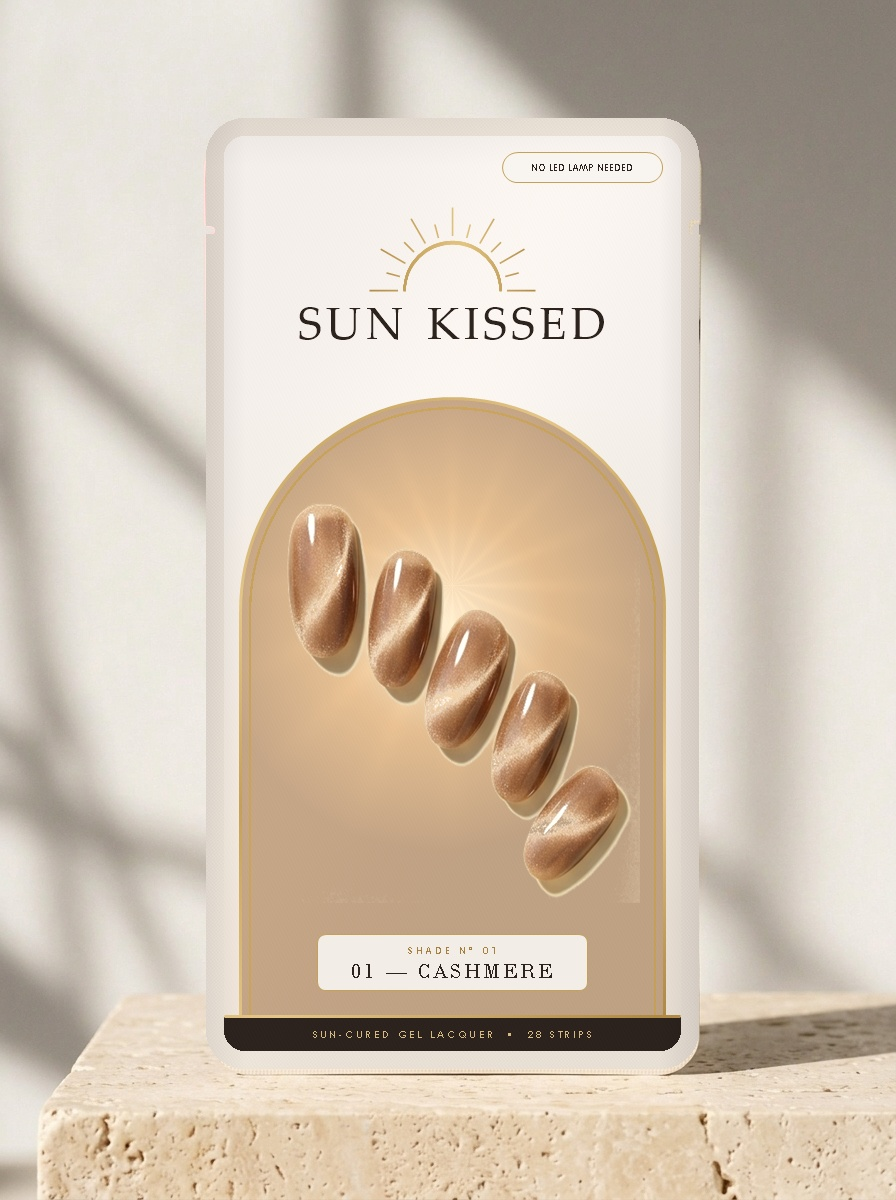
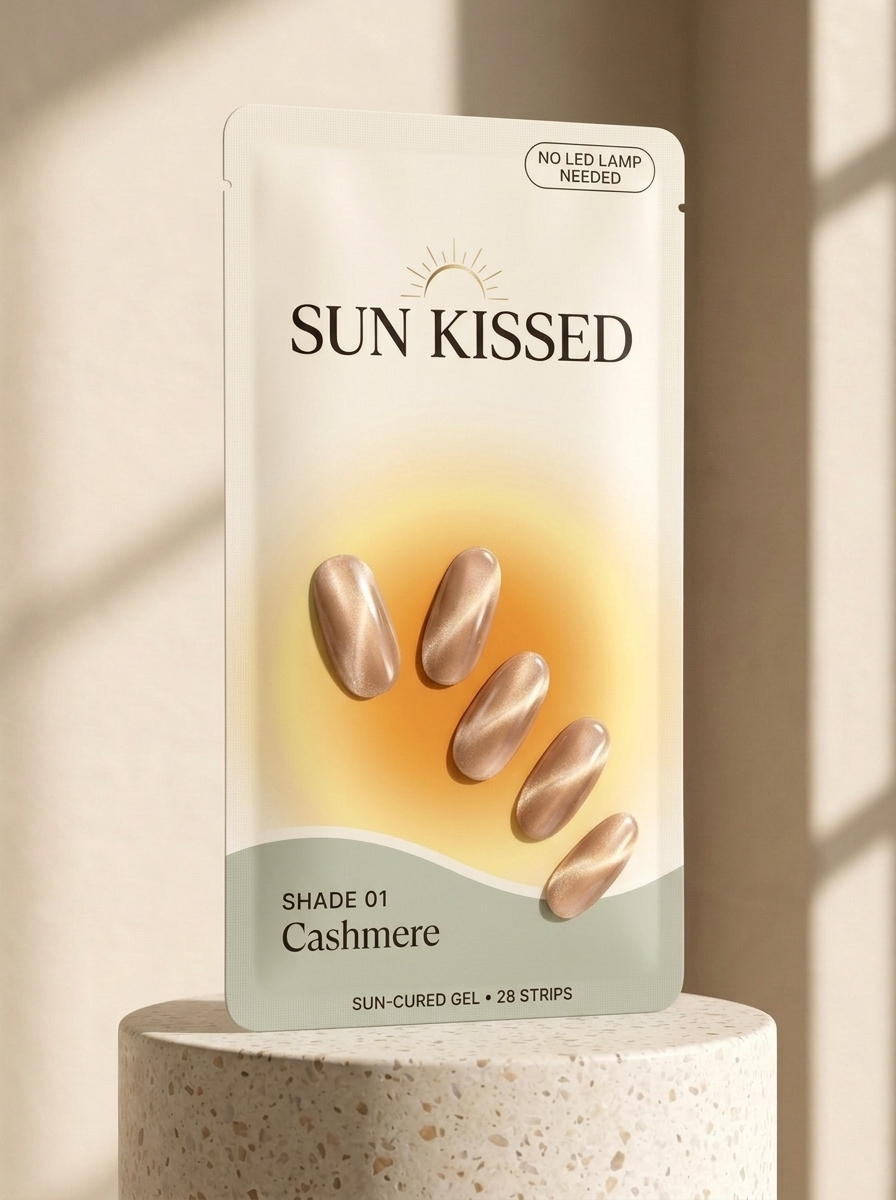
Update Sun Kissed to C2O1 Solar Blur and C2O2 Architectural Sunbeam

diff --git a/brand/index.html b/brand/index.html
@@ -493,9 +493,9 @@
       <!-- CONCEPT 2: SUN KISSED -->
       <article class="brand-col sunkissed" id="colSunkissed">
         <div class="brand-header">
-          <span class="brand-tag">Concept 02 (C2) • High-End Quiet Luxury</span>
+          <span class="brand-tag">Concept 02 (C2) • Warm Clean-Girl Luxury</span>
           <h2>Sun Kissed</h2>
-          <p>Architectural, minimalist, and ultra-elevated. Inspired by <strong>Rhode, Merit, Toteme, and Chanel Les Beiges</strong>—solar-cured gel strips packaged like a $55 luxury beauty object.</p>
+          <p>Warm, radiant, effortless, and high-end. Inspired by <strong>Summer Fridays, Rhode, Loewe, and Crown Affair</strong>—turning natural daylight and shadow into an iconic beauty packaging signature.</p>
         </div>
 
         <div class="brand-body">
@@ -503,14 +503,14 @@
             <div class="section-head">
               <span class="section-label">Pouch Packaging Options (Shade 01: Cashmere)</span>
               <div class="mini-tabs">
-                <button class="mini-tab active" onclick="switchSkMockup('c2o1', this)">C2O1: Solar Aura Arch</button>
-                <button class="mini-tab" onclick="switchSkMockup('c2o2', this)">C2O2: Riviera Cabana</button>
+                <button class="mini-tab active" onclick="switchSkMockup('c2o1', this)">C2O1: The Solar Blur</button>
+                <button class="mini-tab" onclick="switchSkMockup('c2o2', this)">C2O2: Architectural Sunbeam</button>
               </div>
             </div>
             <div class="visual-card">
               <img id="skMockupImg" src="assets/sunkissed-v1-horizon-pouch.jpg" onerror="this.src='assets/sun-kissed-packaging.jpg'" alt="Sun Kissed Luxury Pouch Mockup" onclick="openLightbox(this.src)" />
               <div class="visual-caption" id="skMockupCaption">
-                <strong>C2O1 — "Solar Aura &amp; Travertine Arch" Pouch:</strong> Features the signature <strong>18k Brushed Gold Rising-Sun Arch &amp; Rays logo crest</strong> above <code>SUN KISSED</code>, a sculpted <strong>Golden-Hour Travertine &amp; Champagne Taupe Solar Arch</strong> (<code>#D2B99D</code> &rarr; <code>#BFA183</code>) framing the 5 cascading nails, an Alabaster Linen <code>01 — CASHMERE</code> couture plaque, and a grounding <strong>Deep Espresso (<code>#2C221E</code>)</strong> base bar (with the bottom slogan removed).
+                <strong>C2O1 — "The Solar Blur" Pouch (<em>Summer Fridays / Rhode / Gisou</em> Vibe):</strong> Soft-touch matte <strong>Vanilla Cream (<code>#F7EFE1</code>)</strong> pouch with a velvety, frosted-glass <strong>Amber Dusk (<code>#EA9028</code>) &rarr; Lemon Sorbet (<code>#FCE79C</code>)</strong> golden-hour glow behind the 5 cascading nails, anchored by a gentle curved <strong>Sage Kiss (<code>#B8BDAA</code>)</strong> horizon base and topped with the Brushed Gold Rising-Sun Arch crest.
               </div>
             </div>
           </div>
@@ -533,24 +533,15 @@
 
           <div>
             <div class="section-head">
-              <span class="section-label">C2O1 Palette: Quiet-Luxury Golden Hour (Click to copy)</span>
+              <span class="section-label">Sun Kissed Signature Palette: Sunlit Sage &amp; Amber Dusk (Click to copy)</span>
             </div>
-            <div class="palette-row" style="margin-bottom:1rem;">
-              <div class="swatch" onclick="copyHex('#F4EFEA')"><div class="swatch-color" style="background:#F4EFEA"></div><div class="swatch-meta"><strong>Linen</strong><span>#F4EFEA</span></div></div>
-              <div class="swatch" onclick="copyHex('#D2B99D')"><div class="swatch-color" style="background:#D2B99D"></div><div class="swatch-meta"><strong>Travertine</strong><span>#D2B99D</span></div></div>
-              <div class="swatch" onclick="copyHex('#BFA183')"><div class="swatch-color" style="background:#BFA183"></div><div class="swatch-meta"><strong>Taupe</strong><span>#BFA183</span></div></div>
-              <div class="swatch" onclick="copyHex('#C5A059')"><div class="swatch-color" style="background:#C5A059"></div><div class="swatch-meta"><strong>Gold Foil</strong><span>#C5A059</span></div></div>
-              <div class="swatch" onclick="copyHex('#2C221E')"><div class="swatch-color" style="background:#2C221E"></div><div class="swatch-meta"><strong>Espresso</strong><span>#2C221E</span></div></div>
-            </div>
-            <div class="section-head">
-              <span class="section-label">C2O2 Palette: Endless Summer "Mediterranean Riviera" (Click to copy)</span>
-            </div>
-            <div class="palette-row">
-              <div class="swatch" onclick="copyHex('#1B4D89')"><div class="swatch-color" style="background:#1B4D89"></div><div class="swatch-meta"><strong>Cobalt</strong><span>#1B4D89</span></div></div>
-              <div class="swatch" onclick="copyHex('#D96B43')"><div class="swatch-color" style="background:#D96B43"></div><div class="swatch-meta"><strong>Terracotta</strong><span>#D96B43</span></div></div>
-              <div class="swatch" onclick="copyHex('#F4C44E')"><div class="swatch-color" style="background:#F4C44E"></div><div class="swatch-meta"><strong>Limoncello</strong><span>#F4C44E</span></div></div>
-              <div class="swatch" onclick="copyHex('#FAF6F0')"><div class="swatch-color" style="background:#FAF6F0"></div><div class="swatch-meta"><strong>Chalk Linen</strong><span>#FAF6F0</span></div></div>
-              <div class="swatch" onclick="copyHex('#1D2432')"><div class="swatch-color" style="background:#1D2432"></div><div class="swatch-meta"><strong>Riviera Navy</strong><span>#1D2432</span></div></div>
+            <div class="palette-row" style="grid-template-columns: repeat(6, 1fr);">
+              <div class="swatch" onclick="copyHex('#B8BDAA')"><div class="swatch-color" style="background:#B8BDAA"></div><div class="swatch-meta"><strong>Sage Kiss</strong><span>#B8BDAA</span></div></div>
+              <div class="swatch" onclick="copyHex('#E4E6D4')"><div class="swatch-color" style="background:#E4E6D4"></div><div class="swatch-meta"><strong>Soft Sage</strong><span>#E4E6D4</span></div></div>
+              <div class="swatch" onclick="copyHex('#EA9028')"><div class="swatch-color" style="background:#EA9028"></div><div class="swatch-meta"><strong>Amber Dusk</strong><span>#EA9028</span></div></div>
+              <div class="swatch" onclick="copyHex('#E3C89E')"><div class="swatch-color" style="background:#E3C89E"></div><div class="swatch-meta"><strong>Nude Sand</strong><span>#E3C89E</span></div></div>
+              <div class="swatch" onclick="copyHex('#FCE79C')"><div class="swatch-color" style="background:#FCE79C"></div><div class="swatch-meta"><strong>Lemon Sorbet</strong><span>#FCE79C</span></div></div>
+              <div class="swatch" onclick="copyHex('#F7EFE1')"><div class="swatch-color" style="background:#F7EFE1"></div><div class="swatch-meta"><strong>Vanilla Cream</strong><span>#F7EFE1</span></div></div>
             </div>
           </div>
 
@@ -640,11 +631,11 @@
     const SK_MOCKUPS = {
       c2o1: {
         src: 'assets/sunkissed-v1-horizon-pouch.jpg',
-        caption: '<strong>C2O1 — "Solar Aura &amp; Travertine Arch" Pouch:</strong> Features the signature <strong>18k Brushed Gold Rising-Sun Arch &amp; Rays logo crest</strong> above <code>SUN KISSED</code>, a sculpted <strong>Golden-Hour Travertine &amp; Champagne Taupe Solar Arch</strong> (<code>#D2B99D</code> &rarr; <code>#BFA183</code>) framing the 5 cascading nails, an Alabaster Linen <code>01 — CASHMERE</code> couture plaque, and a grounding <strong>Deep Espresso (<code>#2C221E</code>)</strong> base bar (with the bottom slogan removed).'
+        caption: '<strong>C2O1 — "The Solar Blur" Pouch (<em>Summer Fridays / Rhode / Gisou</em> Vibe):</strong> Soft-touch matte <strong>Vanilla Cream (<code>#F7EFE1</code>)</strong> pouch with a velvety, frosted-glass <strong>Amber Dusk (<code>#EA9028</code>) &rarr; Lemon Sorbet (<code>#FCE79C</code>)</strong> golden-hour glow behind the 5 cascading nails, anchored by a gentle curved <strong>Sage Kiss (<code>#B8BDAA</code>)</strong> horizon base and topped with the Brushed Gold Rising-Sun Arch crest.'
       },
       c2o2: {
         src: 'assets/sunkissed-v2-dome-pouch.jpg',
-        caption: '<strong>C2O2 — "Riviera Cabana" Pouch (Endless Summer / <em>Jacquemus &amp; Loewe Paula\'s Ibiza</em> Vibe):</strong> Resort cabana stripes in <strong>Mediterranean Cobalt (<code>#1B4D89</code>)</strong> and <strong>Sun-Bleached Chalk Linen (<code>#FAF6F0</code>)</strong> accented with <strong>Terracotta (<code>#D96B43</code>)</strong> &amp; <strong>Limoncello Gold (<code>#F4C44E</code>)</strong> resort ticking, framing an uncluttered sunlit linen arch stage so the 5 cascading nails pop with maximum contrast.'
+        caption: '<strong>C2O2 — "Architectural Sunbeam" Pouch (<em>Loewe / Jacquemus / Crown Affair</em> Vibe):</strong> Serene <strong>Sage Kiss (<code>#B8BDAA</code>)</strong> shadowed pouch bisected by a crisp diagonal shaft of warm afternoon sunlight (<strong>Vanilla Cream <code>#F7EFE1</code> &rarr; Lemon Sorbet <code>#FCE79C</code></strong> edged in radiant <strong>Amber Dusk <code>#EA9028</code></strong>), directly illuminating the 5 cascading nails.'
       }
     };
 

diff --git a/index.html b/index.html
@@ -493,9 +493,9 @@
       <!-- CONCEPT 2: SUN KISSED -->
       <article class="brand-col sunkissed" id="colSunkissed">
         <div class="brand-header">
-          <span class="brand-tag">Concept 02 (C2) • High-End Quiet Luxury</span>
+          <span class="brand-tag">Concept 02 (C2) • Warm Clean-Girl Luxury</span>
           <h2>Sun Kissed</h2>
-          <p>Architectural, minimalist, and ultra-elevated. Inspired by <strong>Rhode, Merit, Toteme, and Chanel Les Beiges</strong>—solar-cured gel strips packaged like a $55 luxury beauty object.</p>
+          <p>Warm, radiant, effortless, and high-end. Inspired by <strong>Summer Fridays, Rhode, Loewe, and Crown Affair</strong>—turning natural daylight and shadow into an iconic beauty packaging signature.</p>
         </div>
 
         <div class="brand-body">
@@ -503,14 +503,14 @@
             <div class="section-head">
               <span class="section-label">Pouch Packaging Options (Shade 01: Cashmere)</span>
               <div class="mini-tabs">
-                <button class="mini-tab active" onclick="switchSkMockup('c2o1', this)">C2O1: Solar Aura Arch</button>
-                <button class="mini-tab" onclick="switchSkMockup('c2o2', this)">C2O2: Riviera Cabana</button>
+                <button class="mini-tab active" onclick="switchSkMockup('c2o1', this)">C2O1: The Solar Blur</button>
+                <button class="mini-tab" onclick="switchSkMockup('c2o2', this)">C2O2: Architectural Sunbeam</button>
               </div>
             </div>
             <div class="visual-card">
               <img id="skMockupImg" src="assets/sunkissed-v1-horizon-pouch.jpg" onerror="this.src='assets/sun-kissed-packaging.jpg'" alt="Sun Kissed Luxury Pouch Mockup" onclick="openLightbox(this.src)" />
               <div class="visual-caption" id="skMockupCaption">
-                <strong>C2O1 — "Solar Aura &amp; Travertine Arch" Pouch:</strong> Features the signature <strong>18k Brushed Gold Rising-Sun Arch &amp; Rays logo crest</strong> above <code>SUN KISSED</code>, a sculpted <strong>Golden-Hour Travertine &amp; Champagne Taupe Solar Arch</strong> (<code>#D2B99D</code> &rarr; <code>#BFA183</code>) framing the 5 cascading nails, an Alabaster Linen <code>01 — CASHMERE</code> couture plaque, and a grounding <strong>Deep Espresso (<code>#2C221E</code>)</strong> base bar (with the bottom slogan removed).
+                <strong>C2O1 — "The Solar Blur" Pouch (<em>Summer Fridays / Rhode / Gisou</em> Vibe):</strong> Soft-touch matte <strong>Vanilla Cream (<code>#F7EFE1</code>)</strong> pouch with a velvety, frosted-glass <strong>Amber Dusk (<code>#EA9028</code>) &rarr; Lemon Sorbet (<code>#FCE79C</code>)</strong> golden-hour glow behind the 5 cascading nails, anchored by a gentle curved <strong>Sage Kiss (<code>#B8BDAA</code>)</strong> horizon base and topped with the Brushed Gold Rising-Sun Arch crest.
               </div>
             </div>
           </div>
@@ -533,24 +533,15 @@
 
           <div>
             <div class="section-head">
-              <span class="section-label">C2O1 Palette: Quiet-Luxury Golden Hour (Click to copy)</span>
+              <span class="section-label">Sun Kissed Signature Palette: Sunlit Sage &amp; Amber Dusk (Click to copy)</span>
             </div>
-            <div class="palette-row" style="margin-bottom:1rem;">
-              <div class="swatch" onclick="copyHex('#F4EFEA')"><div class="swatch-color" style="background:#F4EFEA"></div><div class="swatch-meta"><strong>Linen</strong><span>#F4EFEA</span></div></div>
-              <div class="swatch" onclick="copyHex('#D2B99D')"><div class="swatch-color" style="background:#D2B99D"></div><div class="swatch-meta"><strong>Travertine</strong><span>#D2B99D</span></div></div>
-              <div class="swatch" onclick="copyHex('#BFA183')"><div class="swatch-color" style="background:#BFA183"></div><div class="swatch-meta"><strong>Taupe</strong><span>#BFA183</span></div></div>
-              <div class="swatch" onclick="copyHex('#C5A059')"><div class="swatch-color" style="background:#C5A059"></div><div class="swatch-meta"><strong>Gold Foil</strong><span>#C5A059</span></div></div>
-              <div class="swatch" onclick="copyHex('#2C221E')"><div class="swatch-color" style="background:#2C221E"></div><div class="swatch-meta"><strong>Espresso</strong><span>#2C221E</span></div></div>
-            </div>
-            <div class="section-head">
-              <span class="section-label">C2O2 Palette: Endless Summer "Mediterranean Riviera" (Click to copy)</span>
-            </div>
-            <div class="palette-row">
-              <div class="swatch" onclick="copyHex('#1B4D89')"><div class="swatch-color" style="background:#1B4D89"></div><div class="swatch-meta"><strong>Cobalt</strong><span>#1B4D89</span></div></div>
-              <div class="swatch" onclick="copyHex('#D96B43')"><div class="swatch-color" style="background:#D96B43"></div><div class="swatch-meta"><strong>Terracotta</strong><span>#D96B43</span></div></div>
-              <div class="swatch" onclick="copyHex('#F4C44E')"><div class="swatch-color" style="background:#F4C44E"></div><div class="swatch-meta"><strong>Limoncello</strong><span>#F4C44E</span></div></div>
-              <div class="swatch" onclick="copyHex('#FAF6F0')"><div class="swatch-color" style="background:#FAF6F0"></div><div class="swatch-meta"><strong>Chalk Linen</strong><span>#FAF6F0</span></div></div>
-              <div class="swatch" onclick="copyHex('#1D2432')"><div class="swatch-color" style="background:#1D2432"></div><div class="swatch-meta"><strong>Riviera Navy</strong><span>#1D2432</span></div></div>
+            <div class="palette-row" style="grid-template-columns: repeat(6, 1fr);">
+              <div class="swatch" onclick="copyHex('#B8BDAA')"><div class="swatch-color" style="background:#B8BDAA"></div><div class="swatch-meta"><strong>Sage Kiss</strong><span>#B8BDAA</span></div></div>
+              <div class="swatch" onclick="copyHex('#E4E6D4')"><div class="swatch-color" style="background:#E4E6D4"></div><div class="swatch-meta"><strong>Soft Sage</strong><span>#E4E6D4</span></div></div>
+              <div class="swatch" onclick="copyHex('#EA9028')"><div class="swatch-color" style="background:#EA9028"></div><div class="swatch-meta"><strong>Amber Dusk</strong><span>#EA9028</span></div></div>
+              <div class="swatch" onclick="copyHex('#E3C89E')"><div class="swatch-color" style="background:#E3C89E"></div><div class="swatch-meta"><strong>Nude Sand</strong><span>#E3C89E</span></div></div>
+              <div class="swatch" onclick="copyHex('#FCE79C')"><div class="swatch-color" style="background:#FCE79C"></div><div class="swatch-meta"><strong>Lemon Sorbet</strong><span>#FCE79C</span></div></div>
+              <div class="swatch" onclick="copyHex('#F7EFE1')"><div class="swatch-color" style="background:#F7EFE1"></div><div class="swatch-meta"><strong>Vanilla Cream</strong><span>#F7EFE1</span></div></div>
             </div>
           </div>
 
@@ -640,11 +631,11 @@
     const SK_MOCKUPS = {
       c2o1: {
         src: 'assets/sunkissed-v1-horizon-pouch.jpg',
-        caption: '<strong>C2O1 — "Solar Aura &amp; Travertine Arch" Pouch:</strong> Features the signature <strong>18k Brushed Gold Rising-Sun Arch &amp; Rays logo crest</strong> above <code>SUN KISSED</code>, a sculpted <strong>Golden-Hour Travertine &amp; Champagne Taupe Solar Arch</strong> (<code>#D2B99D</code> &rarr; <code>#BFA183</code>) framing the 5 cascading nails, an Alabaster Linen <code>01 — CASHMERE</code> couture plaque, and a grounding <strong>Deep Espresso (<code>#2C221E</code>)</strong> base bar (with the bottom slogan removed).'
+        caption: '<strong>C2O1 — "The Solar Blur" Pouch (<em>Summer Fridays / Rhode / Gisou</em> Vibe):</strong> Soft-touch matte <strong>Vanilla Cream (<code>#F7EFE1</code>)</strong> pouch with a velvety, frosted-glass <strong>Amber Dusk (<code>#EA9028</code>) &rarr; Lemon Sorbet (<code>#FCE79C</code>)</strong> golden-hour glow behind the 5 cascading nails, anchored by a gentle curved <strong>Sage Kiss (<code>#B8BDAA</code>)</strong> horizon base and topped with the Brushed Gold Rising-Sun Arch crest.'
       },
       c2o2: {
         src: 'assets/sunkissed-v2-dome-pouch.jpg',
-        caption: '<strong>C2O2 — "Riviera Cabana" Pouch (Endless Summer / <em>Jacquemus &amp; Loewe Paula\'s Ibiza</em> Vibe):</strong> Resort cabana stripes in <strong>Mediterranean Cobalt (<code>#1B4D89</code>)</strong> and <strong>Sun-Bleached Chalk Linen (<code>#FAF6F0</code>)</strong> accented with <strong>Terracotta (<code>#D96B43</code>)</strong> &amp; <strong>Limoncello Gold (<code>#F4C44E</code>)</strong> resort ticking, framing an uncluttered sunlit linen arch stage so the 5 cascading nails pop with maximum contrast.'
+        caption: '<strong>C2O2 — "Architectural Sunbeam" Pouch (<em>Loewe / Jacquemus / Crown Affair</em> Vibe):</strong> Serene <strong>Sage Kiss (<code>#B8BDAA</code>)</strong> shadowed pouch bisected by a crisp diagonal shaft of warm afternoon sunlight (<strong>Vanilla Cream <code>#F7EFE1</code> &rarr; Lemon Sorbet <code>#FCE79C</code></strong> edged in radiant <strong>Amber Dusk <code>#EA9028</code></strong>), directly illuminating the 5 cascading nails.'
       }
     };
 
